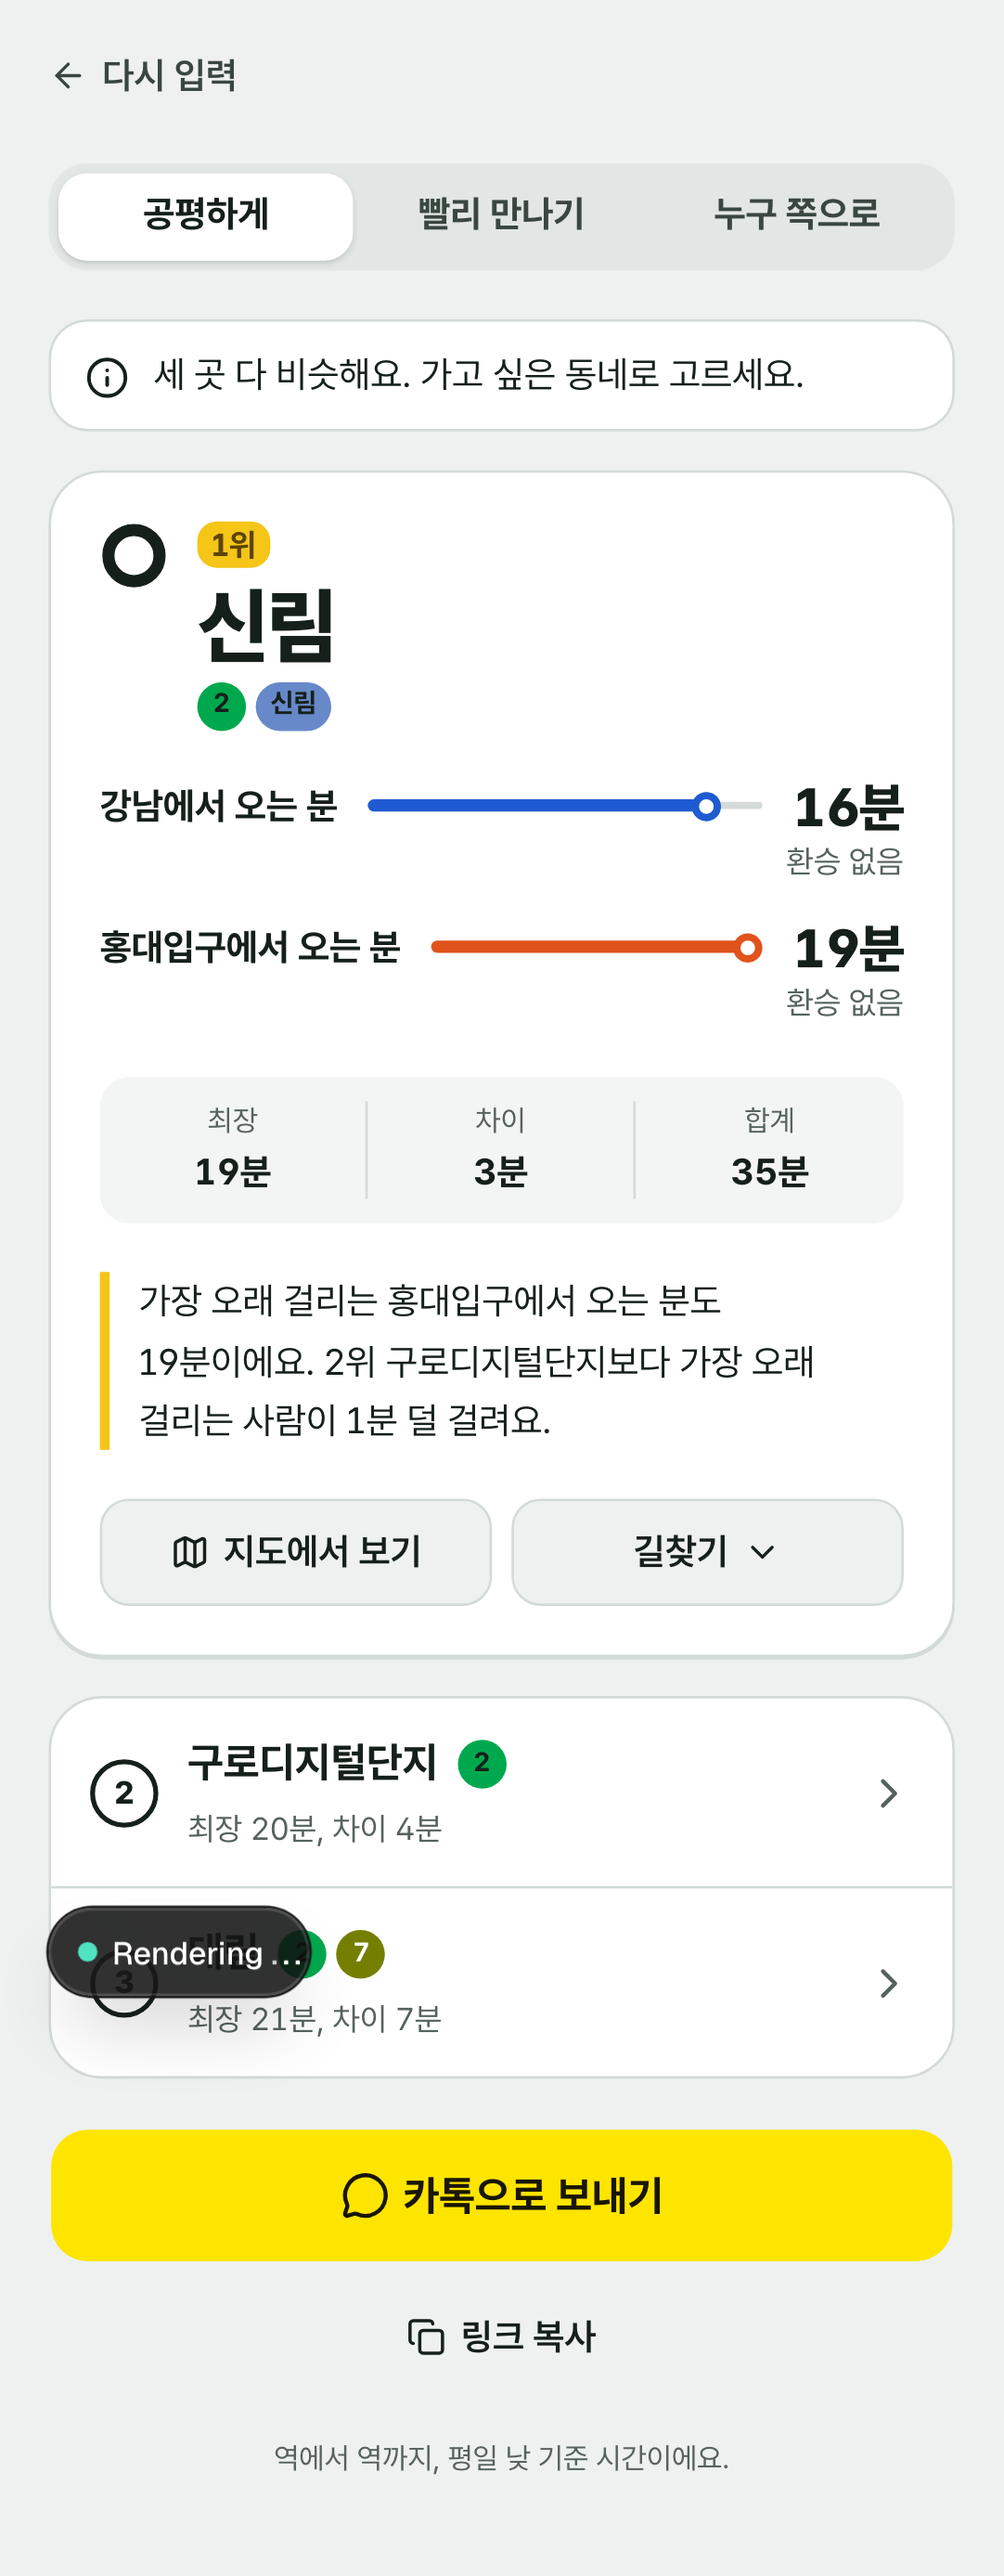
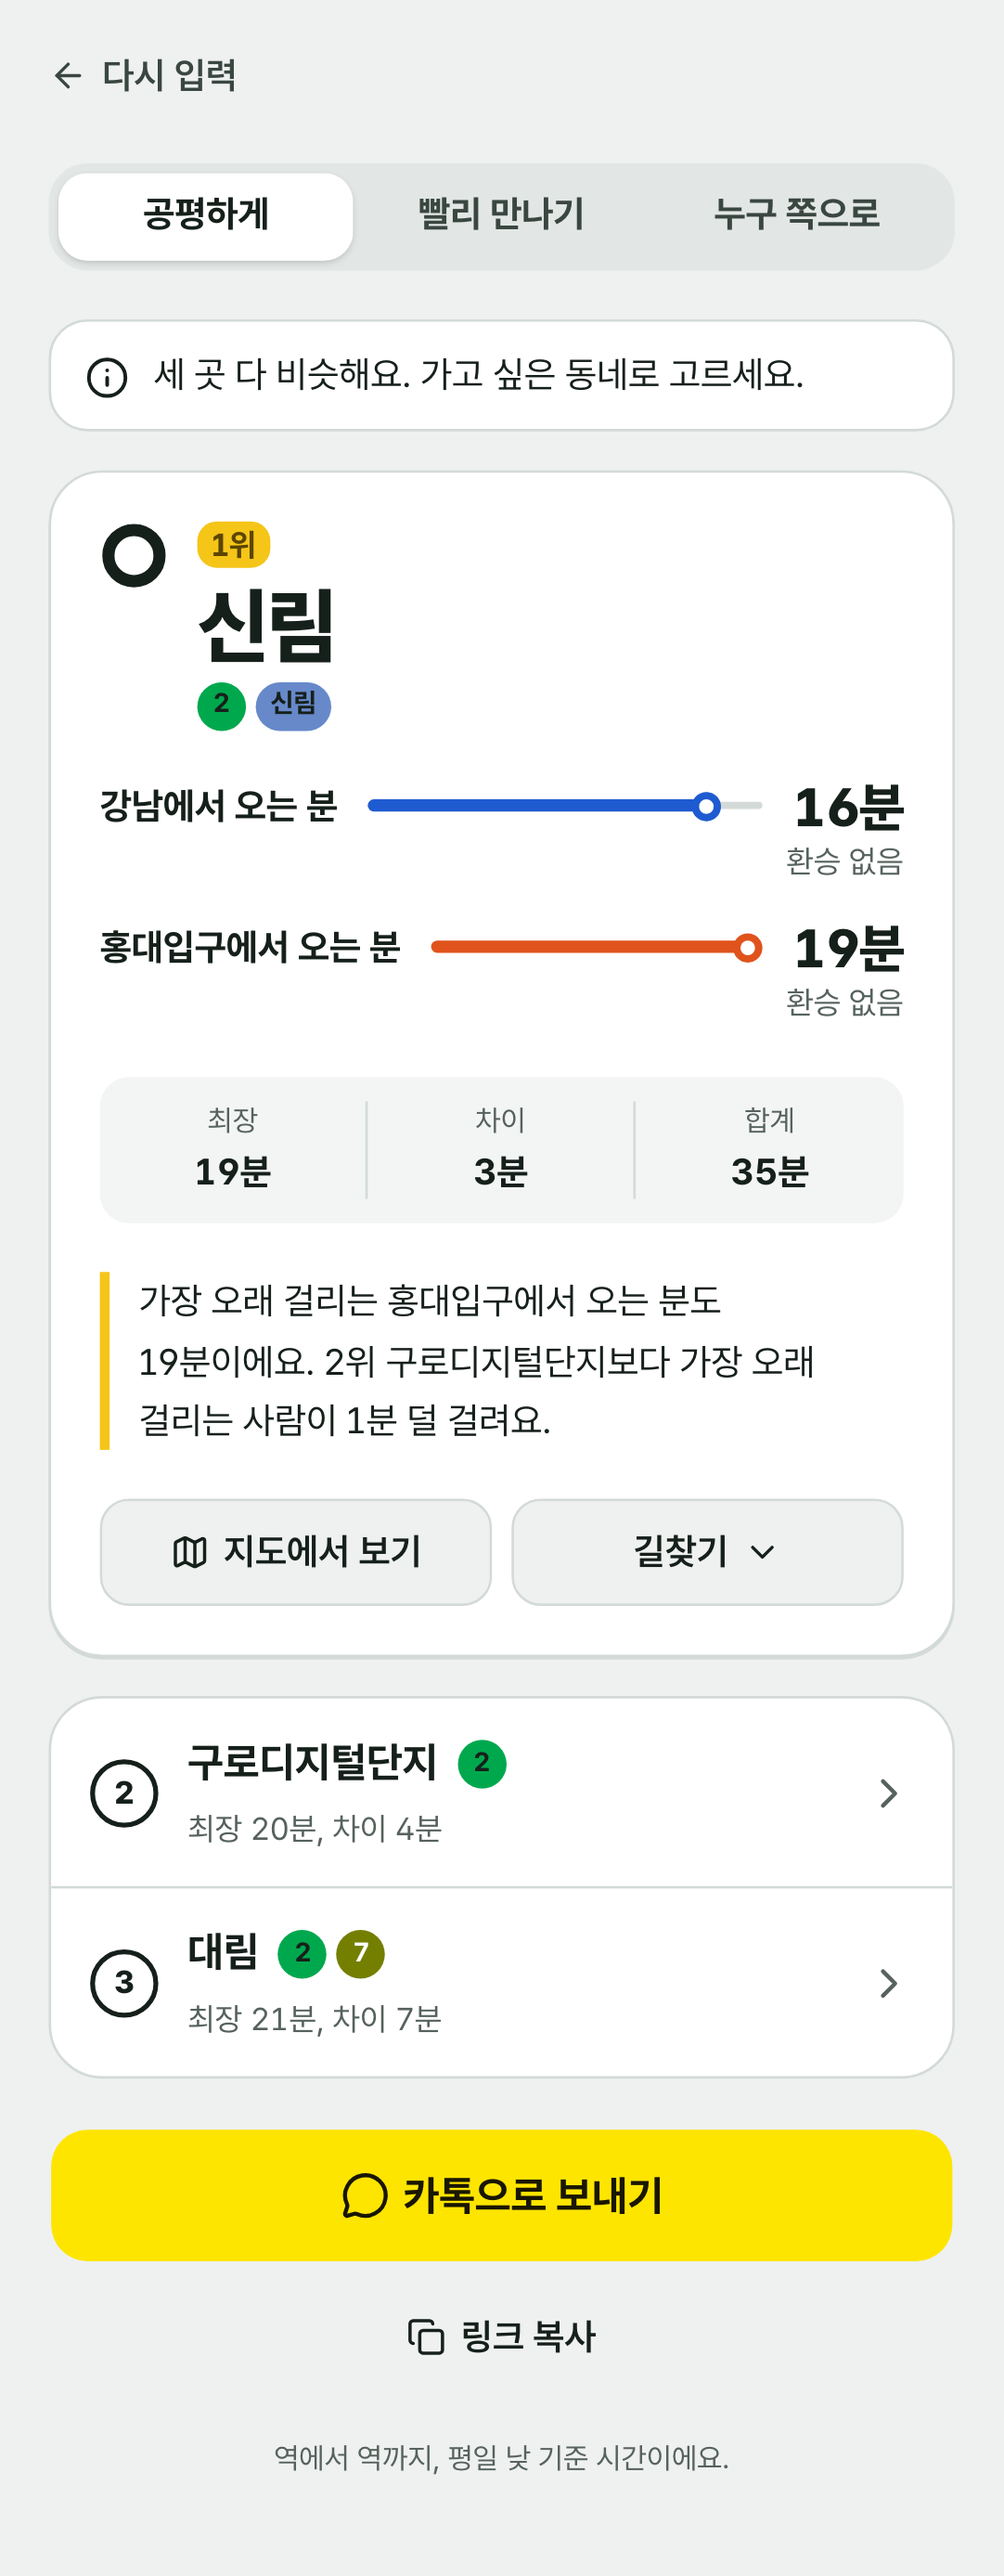
feat: 참가자 표시 이름 규칙(서버 label)과 실제 서버 e2e (W2)

Changed region(s): [[0.0305, 0.7128, 0.305, 0.8058]]

diff --git a/shared/app-logic/src/commonMain/kotlin/app/banbanyeok/applogic/ParticipantLabels.kt b/shared/app-logic/src/commonMain/kotlin/app/banbanyeok/applogic/ParticipantLabels.kt
@@ -25,32 +25,23 @@ public object ParticipantLabels {
     /** [people]의 순서 = 입력(참여) 순서. [PersonRef.originName]이 null이면 숨긴 참가자로 본다. */
     public fun of(people: List<PersonRef>): List<ParticipantLabel> {
         val names = people.map { it.name?.trim()?.takeIf(String::isNotEmpty) }
+        // 이름이 없는 사람만 출발역 이름을 쓴다. 숨긴 사람은 originName이 null이다.
         val origins =
-            people.mapIndexed {
-                i,
-                person,
-                ->
-                person.originName?.takeIf { names[i] == null && it.isNotBlank() }
-            }
+            people.zip(
+                names,
+            ) { person, name -> person.originName?.takeIf { name == null && it.isNotBlank() } }
         val seen = HashMap<String, Int>()
         return people.indices.map { i ->
             val name = names[i]
             val origin = origins[i]
-            when {
-                name != null -> ParticipantLabel(name, LabelKind.NAME)
-                origin != null -> {
-                    val base = "${origin}에서 오는 분"
-                    val text =
-                        if (origins.count { it == origin } > 1) {
-                            val nth = seen.getOrElse(origin) { 0 } + 1
-                            seen[origin] = nth
-                            "$base $nth"
-                        } else {
-                            base
-                        }
-                    ParticipantLabel(text, LabelKind.ORIGIN)
-                }
-                else -> ParticipantLabel("참가자 ${i + 1}", LabelKind.ORDINAL)
+            if (name != null) {
+                ParticipantLabel(name, LabelKind.NAME)
+            } else if (origin == null) {
+                ParticipantLabel("참가자 ${i + 1}", LabelKind.ORDINAL)
+            } else {
+                val nth = if (origins.count { it == origin } > 1) seen.getOrElse(origin) { 0 } + 1 else null
+                nth?.let { seen[origin] = it }
+                ParticipantLabel(listOfNotNull("${origin}에서 오는 분", nth).joinToString(" "), LabelKind.ORIGIN)
             }
         }
     }

diff --git a/docs/setup/w2-notes.md b/docs/setup/w2-notes.md
@@ -1,0 +1,101 @@
+# W2 작업 노트 — 참가자 표시 이름 규칙 + 웹·서버 실제 연결
+
+검증일: 2026-11-14. main(P2c #10, P5 #12, T1 #13 병합 후) 위에서 작업했다.
+
+## 1. 무엇이 문제였나
+
+웹은 이름이 없으면 "나/친구1", 서버 문장은 "A/B"를 써서 서로 어긋났고, 받은 링크에서 보는 사람이 바뀌면 "나"가 다른 사람을
+가리켰다. 사용자·코디네이터가 확정한 규칙을 Kotlin 한 곳(`shared/app-logic` `ParticipantLabels`)에 구현하고, 서버가 응답에
+넣은 `label`을 웹이 그대로 쓰게 했다. 규칙 원문: contracts/data-format.md §8, 벡터: contracts/golden/display-labels.json(16개).
+
+| 순서 | 조건 | label | labelKind |
+|---|---|---|---|
+| 1 | 이름(별칭)을 넣었다 | 그 이름(앞뒤 공백 제거) | `name` |
+| 2 | 이름 없음, 출발역이 보임 | "{출발역}에서 오는 분", 같은 역 여럿이면 입력 순서대로 " 1", " 2" | `origin` |
+| 3 | 이름 없음, 출발역 숨김 | "참가자 {방 안 순번}" | `ordinal` |
+
+## 2. 해석해서 정한 것 (규칙을 바꾸지 않는 범위)
+
+- **"출발역을 숨긴 방의 참가자"는 참가자 단위로 읽었다.** 숨김은 참가자별 설정(`hidden`)이라, 숨긴 사람만 "참가자 N"이고 같은 방의 숨기지 않은 사람은 2번 규칙을 쓴다. 숨긴 사람의 출발역은 어디에도 드러나지 않는다.
+- **같은 역 번호는 2번 규칙을 쓰는 사람끼리만 센다.** 숨긴 사람을 세면 "강남에서 오는 분 1"만 보여도 숨긴 사람이 강남에서 온다는 게 드러난다. 이름을 넣은 사람도 세지 않는다.
+- **같은 역은 "역 이름"으로 판단한다.** 코드가 달라도 이름이 같은 역(예: 신촌 2호선/경의중앙)은 화면에서 구별이 안 되므로 번호를 붙인다.
+- **본인이 숨겼어도 본인에게 "참가자 N"이다.** label은 보는 사람과 무관하게 같은 값이다(문장과 응답이 항상 일치).
+- 출발역 이름을 모르는 경우(레지스트리에 없음)는 숨김과 같이 3번 규칙.
+- `/recommend`는 입력 순서, 방은 참여 순서. 참가자가 나가면 순번이 다시 매겨진다.
+
+## 3. 변경
+
+**계약** — `Participant.label`·`labelKind`(필수 응답 필드 추가, 요청은 그대로). `/recommend` `nicknames` 설명(넣은 사람만, 아무도 없으면 생략), `Candidate.reason` 설명(A/B 규칙 삭제 → label과 같은 이름), 폐기 코드 처리 설명. data-format §3(replacedBy 소비 규칙), §7(화면 이름 문구 정정), §8(신설).
+
+**shared/app-logic** — `ParticipantLabels`/`ParticipantLabel`/`LabelKind` 추가, `DisplayNames` 삭제. `PersonRef`에 `originName`(숨긴 사람은 null) 추가. `ReasonGenerator`·`SituationAdvisor`가 label을 쓴다. 벡터 테스트(`DisplayLabelVectorsTest`)는 contract-test-data 플러그인으로 golden 파일을 읽는다.
+
+**server** — `SentenceNames`(A/B, "민수(A)") 삭제. `RecommendationService`가 label을 만들어 `Recommendation.labels`로 돌려주고 문장도 같은 입력으로 만든다(결과 응답의 label = 문장의 이름). 방 조회·수정 응답은 방 전체로 label을 계산한다(PUT 참가자 응답도 방을 다시 읽어 순번이 맞다). 숨긴 참가자는 출발역 코드·이름을 문장 입력에 넘기지 않는다.
+
+**폐기된 역 코드(P2c 후속)** — `StationDirectory.canonical`이 replacedBy 사슬을 active 코드까지 따라간다(레지스트리 크기만큼만). `/recommend`는 계산 전에 바꾸고 응답에도 정식 코드를 싣는다. 방은 `StationCatalog.canonical`로 저장 전에 바꾸고, 이미 저장된 옛 코드도 결과 계산·조회 때 바꾼다. 웹 역 인덱스에 `replaced`(40개: 옛 코드 → 정식 코드)를 넣어 `stationByCode`가 옛 코드도 찾는다(기억해 둔 "나" 역 포함).
+
+**pipeline(호출부만)** — SEO 이유 문장이 "역명 출발" 대신 이름 없이 출발역만 넘겨 "{역}에서 오는 분"을 쓴다. `./gradlew :pipeline:run --args=all`로 `seo-pairs.json`·`manifest.json`(dataVersion 20261114.3)을 재생성했다. 레지스트리·후보·OD는 바뀌지 않았다.
+
+**web** — `/recommend`에 사람이 넣은 이름만 보낸다(없는 사람 null, 아무도 없으면 생략). 쿼리 키에 별칭 포함. 결과·받은 링크·공유 문구·안내·P5의 링크 미리보기(`/s` 메타데이터, `/s/og`)가 서버 label만 쓴다. `lib/display/names.ts`(나/친구1 규칙) 삭제. 입력 화면의 "나/친구1"은 입력 칸 안내 문구(`INPUT_PLACEHOLDERS`)로만 남았다. "(나)"는 받은 링크에서 고른 사람에게만 붙는다. 이름이 "{역}에서 오는 분"이면 아래 줄에 출발역을 되풀이하지 않는다. 첫 결과 전에는 "나는 누구?"를 그리지 않는다(이름을 모르므로). 받은 링크 제목은 첫 사람 label이 이름일 때만 "{이름}이 고른", 아니면 "친구가 보낸"(보는 사람 화면 문구라 허용).
+
+- OG 이미지: 글꼴에 없는 글자만 남은 이름(이모지 별칭)은 "참가자 N"으로 그린다(전에는 "나/친구1").
+- 가짜 서버(`web/mock`)는 규칙을 흉내 내지 않는다: 이름이 있으면 그 이름, 없으면 "참가자 N". 웹은 label을 그대로 쓰므로 화면 동작은 같다.
+- 방 API: 웹에는 아직 방 흐름이 없어 보낼 곳이 없다. 서버 방 API는 이미 별칭을 받고 label을 돌려준다.
+
+## 4. 문장 스냅샷 변경 이유
+
+| 스냅샷 | 전 | 후 | 이유 |
+|---|---|---|---|
+| ReasonSnapshotTest 별칭 없는 공평 1위 | "가장 오래 걸리는 친구1도 38분" | "가장 오래 걸리는 홍대입구에서 오는 분도 38분" | 규칙 2. 시점 표현 제거 |
+| 4명 공평 1위 | "…친구3도 1시간 5분" | "…사당에서 오는 분도 1시간 5분" | 같은 이유 |
+| 4명 빨리 1위 | "…친구2는 45분" | "…잠실에서 오는 분은 45분" | 같은 이유(조사도 "분"의 받침으로 "은") |
+| 추가: 같은 역 둘 | — | "…강남에서 오는 분 2도 38분" | 번호 규칙 |
+| 추가: 숨긴 사람 배려 | — | "참가자 2는 15분, 환승 없이 와요. 강남에서 오는 분은 …" | 규칙 3 |
+| SituationAdvisor 버튼 | "친구1 쪽으로 보기" | "홍대입구에서 오는 분 쪽으로 보기" | 규칙 2 |
+| 서버 RecommendationService | "A", "민수(A)" | origin label, 같은 별칭은 그대로 | 확정 규칙 1·2 |
+| SEO 435쌍 | "신촌 출발도 13분" | "신촌에서 오는 분도 13분" | SEO도 같은 규칙 |
+
+## 5. 실제 연결 검증
+
+`mise run dev`(db → migrate → seed → server + web)로 웹이 로컬 Ktor에 붙은 상태에서 Playwright로 확인했다(`web/e2e-real/real-server.spec.ts`, `pnpm e2e:real`).
+
+- 이름 없는 2인(강남·홍대입구): 결과 카드 "강남에서 오는 분 16분 / 홍대입구에서 오는 분 19분", 문장 "가장 오래 걸리는 홍대입구에서 오는 분도 19분이에요…", (나) 없음 → [스크린샷](w2-screens/1-result-no-names.png)
+- 링크 복사 → 새 페이지로 받은 링크 → "나는 누구?"에서 "홍대입구에서 오는 분" 선택: 그 줄만 "(나)", 맨 위로, "내 길찾기" → [스크린샷](w2-screens/2-received-pick-friend.png). 다른 사람으로 바꾸면 "(나)"도 옮겨 간다.
+- 옛 링크 `/s?v=1&o=194.ve5&m=f`(공덕·홍대입구의 폐기 코드)가 열리고 "공덕에서 오는 분"으로 보인다.
+- `n`에 이름 하나 + 같은 역 둘: "민수 / 홍대입구에서 오는 분 / 강남에서 오는 분".
+
+```text
+$ REAL_WEB_URL=http://localhost:<WEB_PORT> pnpm e2e:real     # mise run dev(next dev) 대상
+  3 passed (2.9s)
+$ (CI와 같은 순서: db·migrate → server → next build/start) REAL_WEB_URL=http://127.0.0.1:<WEB_PORT> pnpm e2e:real
+  3 passed (3.4s)
+```
+
+주의: `next dev`는 127.0.0.1로 열면 개발용 자원을 막아 수화되지 않는다(입력이 반응하지 않음). dev 대상은 `localhost`로 연다. 프로덕션 빌드(`next start`)는 둘 다 된다.
+
+**CI 잡 `e2e-real`** 을 추가했다(Kotlin 또는 웹 변경 시, 다른 잡과 병렬). compose Postgres → Liquibase → `:server:app:run` → 웹 프로덕션 빌드·시작 → Playwright. 로컬 재현 기준 db·migrate·빌드·테스트가 1분 안쪽이고, CI에서는 Gradle 컴파일·Chromium 설치가 더해져 기존 잡(2~3분)과 비슷한 수준으로 예상했다. 실제 시간은 PR의 CI 결과로 확인한다(5분을 크게 넘으면 잡을 빼고 로컬 검증만 남기는 쪽으로 되돌린다).
+
+## 6. 검증 명령
+
+| 명령 | 결과 |
+|---|---|
+| `./gradlew check` | 성공(ktlint·detekt 2.0 타입 분석·Konsist·경고=오류). 단위 테스트 306개 실패 0 |
+| `./gradlew integrationTest` | 성공(server:app 3, server:room 17 등) |
+| `./gradlew :pipeline:run --args=all` | 성공, SEO 333,673 bytes, 그래프 게이트·해시·append-only 통과 |
+| `pnpm typecheck` / `pnpm lint` / `pnpm test` | 통과 / 통과 / 24 파일 217 테스트 |
+| `pnpm check:contracts` | 통과(API 타입·역 인덱스·OG 글꼴 재생성 후 diff 없음. 글꼴은 바뀌지 않음) |
+| `pnpm e2e`(가짜 서버) | 7개 통과 |
+| `pnpm e2e:real`(실제 서버) | 3개 통과 |
+| `actionlint` | 출력 없음 |
+
+새 의존성·버전 변경 없음. suppress·baseline 추가 없음.
+
+## 7. 관찰
+
+- `./gradlew :pipeline:run --args=all`은 `data/config/source-dates.json`을 한 줄 JSON으로, `source-manifest.json`을 다시 쓴다(내용 같음, 형식만 다름). 이 PR에는 넣지 않았다(파이프라인 소유).
+- 앱(Android/iOS)도 이름 규칙을 다시 만들지 말고 서버 label을 쓰면 된다. 무상태 계산을 앱 안에서 할 경우에만 `ParticipantLabels`를 직접 호출한다.
+
+## 8. 결정 필요
+
+1. **같은 별칭이 둘 이상일 때.** 확정 규칙대로 그대로 둔다("민수", "민수"). 전에는 서버가 "민수(A)"로 구별했다. 문장이 모호해질 수 있다("가장 오래 걸리는 민수도"). 구별이 필요하면 규칙 4번째 줄(예: " 1", " 2")을 추가할지 정해야 한다.
+2. **이름과 label이 우연히 겹칠 때**(누군가 별칭을 "참가자 2"나 "강남에서 오는 분"으로 넣음). 막지 않았다.
+3. **`e2e-real` CI 잡 유지 여부.** 실제 CI 시간을 보고 유지/제거를 정한다.

diff --git a/docs/setup/p6-notes.md b/docs/setup/p6-notes.md
@@ -40,7 +40,7 @@
 | `InputErrorCode` | 14개(아래 표) |
 | `SituationAdvisor.evaluate(SituationInput): List<Notice>` | 극단 상황 안내(`NoticeKind`: `NO_COMMON_CANDIDATE`, `SAME_NEIGHBORHOOD`, `LONG_TRAVEL`, `SIMILAR_CANDIDATES`). 버튼 제안(`favorIndex`, `ctaLabel`) 포함 |
 | `DisplayMinutes` | `fromSeconds`(반올림), `format`(분→"1시간 4분"), `transferLabel`. **웹·앱도 같은 함수 규칙을 쓸 것** |
-| `DisplayNames.resolve(people)` | 별칭 없으면 "나/친구1/친구2/친구3" |
+| `ParticipantLabels.of(people)` | 참가자 표시 이름(W2에서 `DisplayNames`를 대체). 규칙은 contracts/data-format.md §8 |
 
 서버(P3)가 코어 결과를 `ReasonInput`으로 옮기는 어댑터를 붙인다. 코어가 내는 `favorCaps`·`baselineStationId`·`excluded(FAVOR_CAP_EXCEEDED)`가 `FavorContext`의 `capSeconds`·`baselineTimesSeconds`·`closerStationsExcluded`로 대응한다.
 
@@ -86,7 +86,7 @@ iOS에서 `canOpenURL`을 쓰려면 `LSApplicationQueriesSchemes`에 `kakaomap`,
 | 순위 | 반올림 전 초로 정하고 표시만 반올림한다 |
 | 60분 이상 | "1시간 4분", 정확히 60의 배수면 "2시간" |
 | 환승 | 0 → "환승 없음", n → "환승 n번" |
-| 이름 | 별칭이 있으면 그대로, 없으면 입력 순서대로 "나/친구1/친구2/친구3". A/B가 필요하면 호출하는 쪽이 이름으로 넣는다 |
+| 이름 | `ParticipantLabels`: 별칭 → "{출발역}에서 오는 분"(같은 역은 " 1", " 2") → 숨긴 사람은 "참가자 N"(W2, data-format §8) |
 | 조사 | 마지막으로 읽히는 글자의 받침으로 은/는·이/가·와/과를 고른다(한글, 영문 글자 이름 L·M·N·R, 숫자 0·1·3·6·7·8은 받침 있음. 끝의 기호·이모지는 건너뜀) |
 | 허용오차 | 양수(반올림 후 1분 이상)이면 문장 끝에 ` (N분 동점 옵션)`. 빨리 만나기 1위의 "가장 짧아요"는 "가장 짧은 편이에요"로 누그러뜨린다 |
 | 모두 0분 | 어느 모드든 "이미 같은 동네예요." |
@@ -136,7 +136,7 @@ iOS에서 `canOpenURL`을 쓰려면 `LSApplicationQueriesSchemes`에 `kakaomap`,
 1. **카카오맵 앱 스킴(`kakaomap://route…`)을 공식 문서로 확인하지 못했다.** 앱 개발(A1/I1)에서 실기기로 확인하거나 앱 스킴을 빼고 웹 링크만 쓸지 정해 달라. 웹 링크는 공식이다.
 2. **네이버지도 길찾기용 웹 URL은 공식 문서에 없다.** 지금은 도착지 검색 URL(비공식)로 대신한다. 브라우저에서 확인한 뒤 길찾기 URL로 바꿀지(좌표계 등을 확인해야 함) 결정이 필요하다. 네이버 앱 스킴의 `appname` 값(웹은 페이지 URL, 앱은 번들 ID)도 정해야 한다.
 3. **반올림 규칙(30초는 올림, 파생 값은 반올림한 분에서 재계산)** 을 웹·앱의 카드 숫자(막대 옆 분, 접힌 카드의 "최장·차이")가 똑같이 따라야 한다. 웹/앱 작업(P4 등)에 `DisplayMinutes`와 같은 규칙을 지시할 것.
-4. **기본 이름이 "나/친구1…"이다**(data-format §7의 표시 규칙). 서버가 방 참가자에게 A/B를 쓰고 싶으면 이름을 직접 넣어야 한다. 같은 별칭이 둘 이상이면(링크 규칙상 허용) 문장이 모호해질 수 있다. 막지는 않았다.
+4. ~~기본 이름이 "나/친구1…"이다~~ W2에서 `ParticipantLabels`(data-format §8)로 바뀌었다. 같은 별칭이 둘 이상이면 문장이 모호해질 수 있다는 점은 그대로다(docs/setup/w2-notes.md 결정 필요).
 5. **"같은 동네" 임계값 5분, "비슷하다" 임계값 2분은 제안값이다.** product-ux에는 "아주 가까운 역", "1~2분"이라고만 돼 있다. 빨리 모드의 "비슷하다"는 합계(사람·분)가 2분 이내라 인원이 많을수록 엄격하다.
 6. **공통 후보 없음 문구는 내가 정했다**(product-ux에 문구가 없음). 환승이 갈린 경우 문구("합정과 시간은 같고, 둘 다 환승 1번 이하예요")와 막차 문구는 순위가 환승·막차를 쓰지 않으므로(알고리즘 규칙) 넣지 않았다.
 7. **`reason`을 `required`로 넣었다.** 서버 구현(P3)이 모든 후보에 문장을 넣어야 한다. 선택 필드로 두려면 openapi를 고치면 된다.
